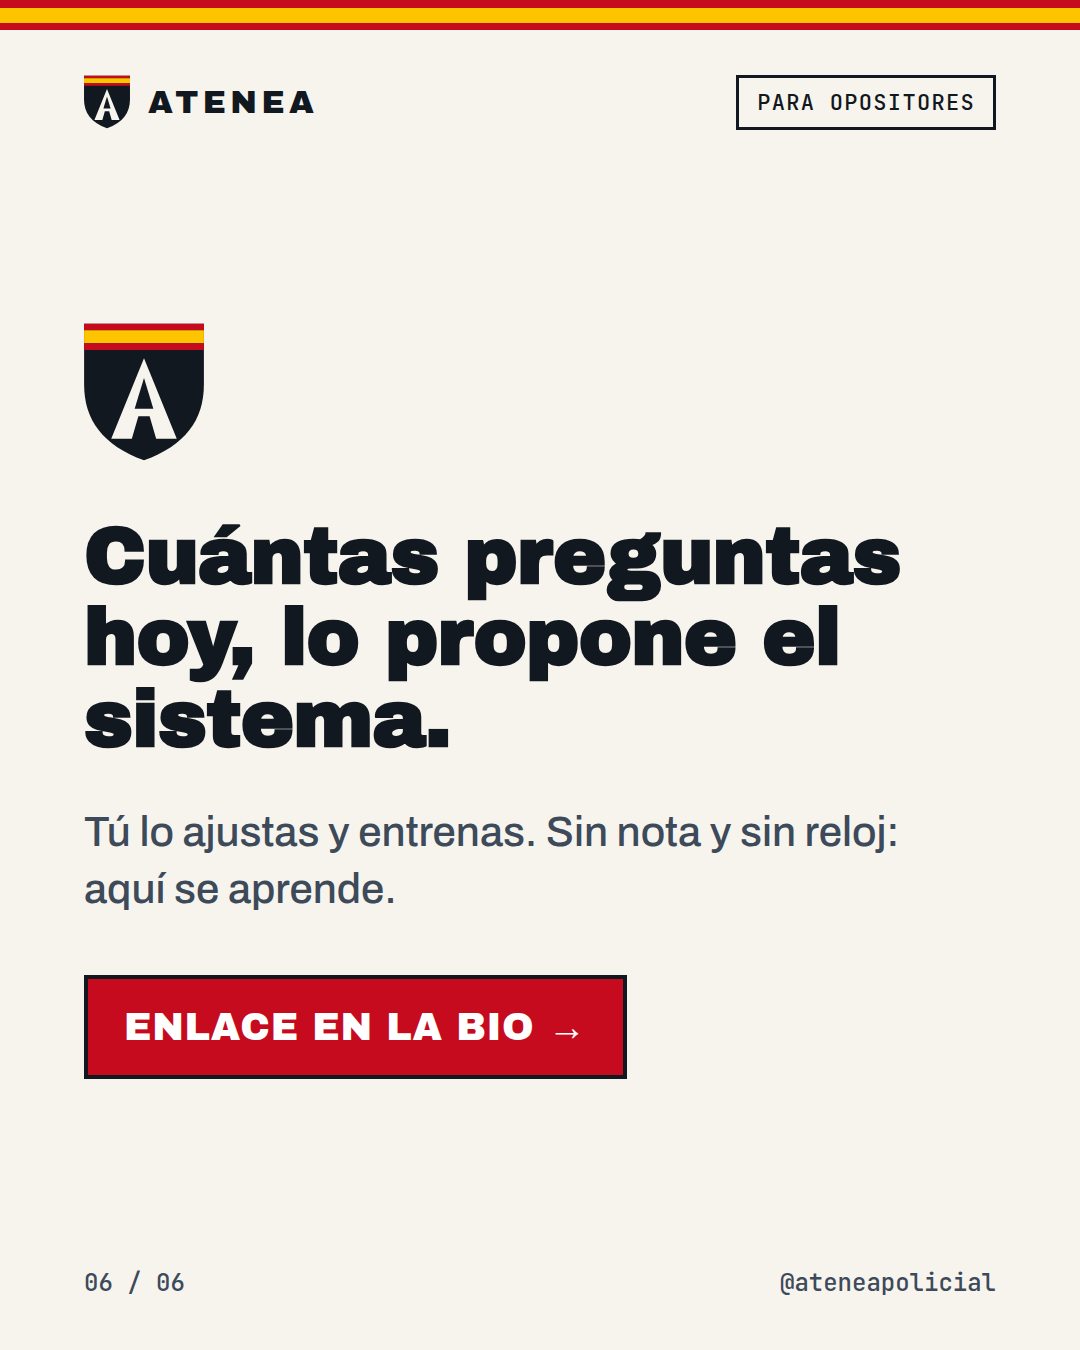
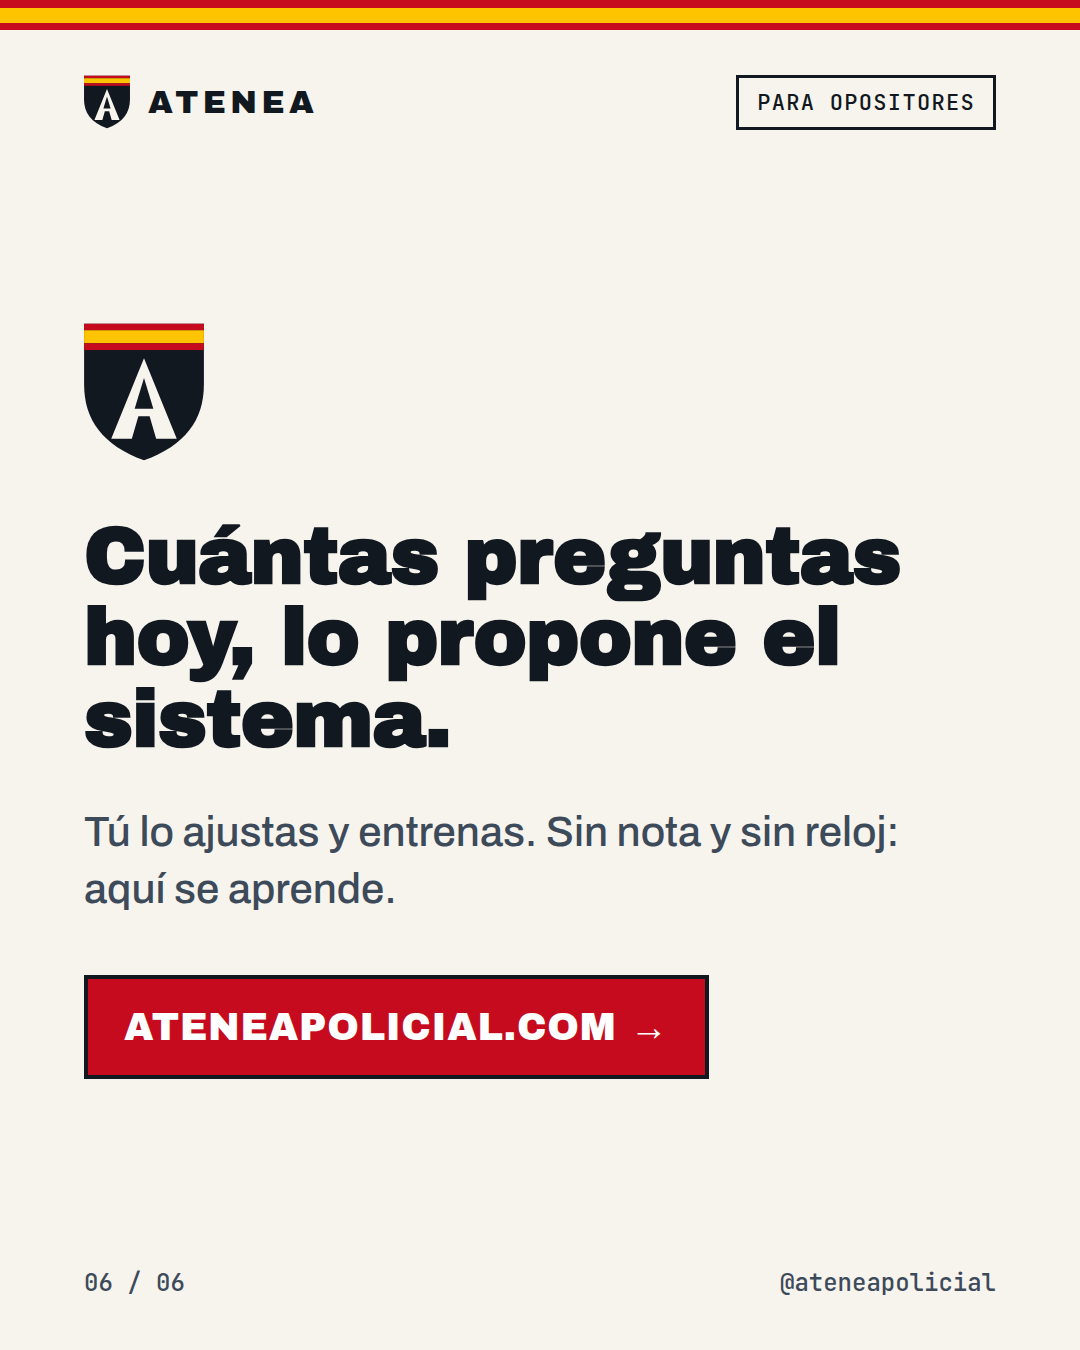
Instagram: el motor adaptativo como mensaje, no la fórmula del BOE
El post 02 pasa a ser «Sabe qué se te va a olvidar antes que tú» (un reloj
por pregunta y la semana de repasos). La fórmula sale del manifiesto, de
los simulacros y de Mi Evolución. Las llamadas a la acción apuntan a
ateneapolicial.com, y la cuenta y el dominio dejan de figurar como
pendientes: ya existen.

Claude-Session: https://claude.ai/code/session_01Q8bJ7PzybgSgRwg9n7MrC2

Changed region(s): [[0.1222, 0.7156, 0.6722, 0.8089]]

diff --git a/marketing/instagram/POSTS.md b/marketing/instagram/POSTS.md
@@ -16,18 +16,18 @@ Las imágenes de cada post están en `png/<id>/`, numeradas en el orden en que s
    Estudiar lo que no toca, sí.
 2. Lo que hay  
    Miles de preguntas al azar y un porcentaje.  
-   Así funcionan casi todas las plataformas de test. Tú decides qué repasar, cuándo y cuánto. Y el porcentaje te dice que vas bien cuando la nota real diría otra cosa.
+   Así funcionan casi todas las plataformas de test. Qué repasar, cuándo y cuánto lo decides tú. Y nadie mira cómo has respondido: solo si has acertado.
 3. Lo que hace Atenea  
    Decide por ti. Y te dice por qué.  
    · Qué estudias hoy — Cada pregunta lleva su propio calendario de repaso. Hoy salen las que te tocan.  
    · Dónde está tu nota — El banco crece donde más cae el examen real: 497 preguntas oficiales de 2021 a 2025, contadas tema a tema.  
-   · Cuánto sacarías hoy — Simulacros con la fórmula de la convocatoria. Los fallos restan.
+   · Qué se te está olvidando — Lo que se te va antes de que se vaya del todo, sin que tengas que buscarlo.
 4. Y para academias  
    Tu método, con un motor detrás.  
    A quién llamar hoy, qué preguntas falla toda la clase, grupos, pagos y físicas. Con el nombre de tu academia y tu propio enlace.
 5. Policía Nacional. Escala Básica.  
    45 temas. Un sistema que aprende de cómo respondes.  
-   Enlace en la bio
+   ateneapolicial.com
 
 ### Pie de foto
 
@@ -39,81 +39,72 @@ Casi todas las plataformas de test hacen lo mismo: un banco enorme, preguntas al
 Atenea lo decide por ti, y te dice por qué:
 → Cada pregunta tiene su calendario de repaso. Hoy salen las que te tocan.
 → El banco crece donde más cae el examen real (497 preguntas oficiales, 2021–2025, contadas por tema).
-→ Los simulacros se puntúan con la fórmula de la convocatoria: los fallos restan.
+→ Sabe qué se te está olvidando y te lo pone delante antes de que se vaya.
 
 ¿Tienes una academia? También es para ti: panel de alumnos, grupos, pagos y físicas, con tu nombre y tu enlace.
 
-Oposición a Policía Nacional, Escala Básica. Enlace en la bio.
+Oposita a Policía Nacional como nunca antes. ateneapolicial.com
 
 #policianacional #oposicionespolicia #escalabasica #opositores #academiadeoposiciones
 ```
 
 ### Texto alternativo (accesibilidad)
 
-> Carrusel de presentación de Atenea Policial: estudiar más horas no es el problema, estudiar lo que no toca sí. Explica que la plataforma decide qué repasar cada día, prioriza los temas que más caen en el examen real y puntúa con la fórmula oficial.
+> Carrusel de presentación de Atenea Policial: estudiar más horas no es el problema, estudiar lo que no toca sí. Explica que la plataforma decide qué repasar cada día, prioriza los temas que más caen en el examen real y detecta qué se le está olvidando al alumno.
 
 ---
 
-## 02-la-nota-real · La fórmula del BOE: los fallos restan
+## 02-lo-que-se-te-va-a-olvidar · Sabe qué se te va a olvidar antes que tú
 
 **Semana 1, Miércoles** · Público: **Para opositores** · 📌 **Fijar en el perfil**
 
 ### Diapositivas
 
-1. Antes de tu próximo test  
-   60 aciertos de 100. Tu nota: un 4.  
-   Tu app te habría dicho «60 %».
-2. La fórmula de la convocatoria  
-   [ A − E/2 ] × 10 / P  
-   Con tres opciones de respuesta, cada dos fallos te quitan un acierto.
-3. Hagamos la cuenta  
-   Contestándolo todo  
-   · 60 aciertos +60  
-   · 40 fallos ÷ 2 −20  
-   · Netos 40  
-   · 40 × 10 / 100   
-   · Nota: 4,0
-4. Mismo alumno, otra estrategia  
-   20 que no sabía, en blanco  
-   Mismos aciertos. Un punto más.  
-   · 60 aciertos +60  
-   · 20 fallos ÷ 2 −10  
-   · 20 en blanco 0  
-   · 50 × 10 / 100   
-   · Nota: 5,0
-5. El problema  
-   Un porcentaje te enseña a contestarlo todo.  
-   Si nunca ves lo que te cuesta un fallo, arriesgar siempre parece buena idea. En el examen real, no lo es.
-6. En Atenea, cada simulacro se puntúa como el de verdad.  
-   Fórmula del BOE, 30 segundos por pregunta, y lo que te ha costado cada fallo dicho en palabras.  
-   Guárdalo para tu próximo simulacro
+1. Lo que te toca hoy  
+   Sabe qué se te va a olvidar antes que tú.  
+   Y te lo pone delante justo a tiempo.
+2. El problema  
+   Lo que estudiaste hace tres semanas ya se está yendo.  
+   Y no lo notas hasta el examen. Repasar por temas, en orden, llega tarde a unas preguntas y demasiado pronto a otras.
+3. Lo que te toca esta semana  
+   Preguntas que vencen cada día. Las que se te pasan no se pierden: cuentan en hoy.  
+   _(ejemplo ilustrativo)_
+4. Cómo lo sabe  
+   Cada pregunta tiene su propio reloj.  
+   Uno por pregunta y por alumno. Si la aciertas firme, se aleja. Si se te cae, vuelve antes. Si la aciertas dudando, no se retira.
+5. Sin encuestas  
+   No te pregunta nada.  
+   Lo deduce de cómo respondes: cuánto tardas comparado contigo, cuándo tocas la primera opción, si cambias de idea.
+6. Tú entras. Lo que toca hoy ya está elegido.  
+   Oposita a Policía Nacional como nunca antes.  
+   ateneapolicial.com
 
 ### Pie de foto
 
 ```text
-60 aciertos de 100. ¿Qué nota sacas?
+Lo que estudiaste hace tres semanas se te está olvidando ahora mismo. Y no lo vas a notar hasta el examen.
 
-Si has dicho un 6, haz la cuenta otra vez.
+Repasar por temas, en orden, llega tarde a unas preguntas y demasiado pronto a otras.
 
-En la primera prueba de la Escala Básica los fallos restan. La fórmula de la convocatoria es [A − E/(n−1)] × 10/P, y con tres opciones queda así: cada dos fallos te quitan un acierto.
+En Atenea cada pregunta tiene su propio reloj, distinto para cada alumno:
+→ Si la aciertas firme, se aleja.
+→ Si se te cae, vuelve antes.
+→ Si la aciertas dudando, no se da por sabida.
 
-60 aciertos y 40 fallos → 60 − 20 = 40 netos → un 4,0.
-60 aciertos, 20 fallos y 20 en blanco → 60 − 10 = 50 netos → un 5,0.
+Y no te pregunta nada: lo deduce de cómo respondes. Cuánto tardas comparado contigo, cuándo tocas la primera opción, si cambias de idea.
 
-Sabes lo mismo y sacas un punto más. El blanco no resta; contestar a ciegas, sí.
+Tú entras y lo que te toca hoy ya está elegido. Ves lo que vence cada día de la semana, y lo que se te pasa no se pierde: cuenta en hoy.
 
-Por eso en Atenea los simulacros no dan un porcentaje: dan la nota con la fórmula oficial, con reloj de 30 segundos por pregunta, y te dicen lo que te ha costado cada fallo.
+(Las cifras de la imagen son un ejemplo.)
 
-Guárdalo y compártelo con quien siga contando porcentajes.
+ateneapolicial.com
 
-Fuente: BOE-A-2026-15055, primera prueba.
-
-#policianacional #oposicionespolicia #escalabasica #opositores #testoposiciones
+#policianacional #oposicionespolicia #tecnicasdeestudio #repeticionespaciada #opositores
 ```
 
 ### Texto alternativo (accesibilidad)
 
-> Carrusel que explica la fórmula de la nota de la Escala Básica de Policía Nacional. Con 60 aciertos y 40 fallos la nota es un 4; con 60 aciertos, 20 fallos y 20 en blanco, un 5. Los fallos restan y el blanco no.
+> Carrusel sobre cómo Atenea anticipa el olvido: cada pregunta tiene su propio calendario de repaso por alumno. Muestra un ejemplo de las preguntas que vencen cada día de la semana y explica que el sistema lo deduce de cómo responde el alumno, sin preguntarle.
 
 ---
 
@@ -201,7 +192,7 @@ Tienes una academia de oposición a Policía Nacional y quieres verlo con tus al
    En los temas que más caen hay preguntas para cada artículo, no una cifra redonda por tema. Y cuando dos repasos son igual de urgentes, va primero el del tema que más cae.
 7. Guárdalo. Pásaselo a quien estudia contigo.  
    Las preguntas oficiales se usan para medir el peso, nunca como fuente: la ley cambia.  
-   Enlace en la bio
+   ateneapolicial.com
 
 ### Pie de foto
 
@@ -264,7 +255,7 @@ Fuente: cuadernillos oficiales 2021–2025, clasificados por tema.
    Cada recaída acorta su siguiente repaso. Es tu memoria con esa pregunta, no una media de todo el mundo.
 6. Cuántas preguntas hoy, lo propone el sistema.  
    Tú lo ajustas y entrenas. Sin nota y sin reloj: aquí se aprende.  
-   Enlace en la bio
+   ateneapolicial.com
 
 ### Pie de foto
 
@@ -376,7 +367,7 @@ Demo para academias: escríbenos por DM.
    · Laguna — Esto no lo sabías.
 6. Tú contestas. Lo demás lo deducimos.  
    Sin encuestas después de cada pregunta.  
-   Enlace en la bio
+   ateneapolicial.com
 
 ### Pie de foto
 
@@ -421,12 +412,9 @@ Tú contestas. Lo demás lo hace el sistema.
 4. Los blancos  
    Hay dos tipos de blanco.  
    El que no tocaste porque no tenías ni idea. Y el que marcaste y retiraste porque no compensaba arriesgar. El segundo es estrategia, y lo distinguimos.
-5. Reloj de la convocatoria  
-   30 s por pregunta.  
-   100 preguntas en 50 minutos. Un simulacro de 25 dura 12:30.
-6. Tu media de simulacros, con la nota del BOE.  
-   La mejor, la última y hacia dónde vas.  
-   Enlace en la bio
+5. Dos simulacros que se pueden comparar.  
+   Tu media, la mejor y hacia dónde vas.  
+   ateneapolicial.com
 
 ### Pie de foto
 
@@ -440,7 +428,6 @@ En Atenea un simulacro:
 → Reparte por temas y por artículos.
 → Mantiene fija la mezcla de dificultad.
 → No repite lo que has visto en los últimos 7 días.
-→ Lleva el reloj de la convocatoria: 30 segundos por pregunta.
 
 Al terminar, una cuadrícula: verde, rojo y blanco. Cada casilla abre qué marcaste, la correcta, la explicación, el artículo y cuánto tardaste.
 
@@ -526,7 +513,7 @@ Y si un alumno reporta una pregunta de tu banco, te llega a ti. Si es del banco 
    Porque el día del examen la trampa no es la correcta: es la que se le parece.
 5. Tus fallos, ordenados por lo que hay que hacer con ellos.  
    No una lista plana de todo lo que has fallado.  
-   Enlace en la bio
+   ateneapolicial.com
 
 ### Pie de foto
 
@@ -564,13 +551,13 @@ Y cada explicación dice por qué la correcta está bien y también por qué las
    · El mapa del temario — Por tema: dominadas, en camino y sin tocar.  
    · Las que se te resisten — Y de qué tema son la mayoría.  
    · Las que evitas — Las que siempre dejas en blanco.  
-   · ¿Aprobaría? — Tu media de simulacros con la nota del BOE, y hacia dónde va.
+   · ¿Aprobaría? — Tu media de simulacros y hacia dónde va.
 4. En todos tus dispositivos  
    Un día que ya pasó no cambia.  
    Tu curva se guarda en tu cuenta: la misma en el móvil y en el ordenador.
 5. Dónde estás. No dónde te gustaría estar.  
    Solo lo que has hecho, contado bien.  
-   Enlace en la bio
+   ateneapolicial.com
 
 ### Pie de foto
 
@@ -584,7 +571,7 @@ Casi ninguna plataforma te lo puede decir, porque solo guarda aciertos y fallos 
 → El mapa del temario: por tema, qué está dominado, qué va en camino y qué no has tocado.
 → Las que se te resisten, y de qué tema son la mayoría.
 → Las que evitas: las que siempre dejas en blanco.
-→ ¿Aprobaría?: la media de tus simulacros con la nota del BOE, y la tendencia.
+→ ¿Aprobaría?: la media de tus simulacros y la tendencia.
 
 Sin predicciones de cuándo vas a aprobar. Solo lo que has hecho, contado bien.
 

diff --git a/marketing/instagram/README.md b/marketing/instagram/README.md
@@ -22,8 +22,8 @@ Lo que decimos que nadie más dice, y que el producto hace de verdad:
 
 | Lo que decimos | En qué se apoya (no es marketing: está en el código) |
 |---|---|
-| Tu nota real, no un porcentaje | `app/lib/scoring.ts`: la fórmula del BOE, los fallos restan, el blanco no |
 | Lo que cae de verdad | `app/lib/exam-weight-data.ts`: 497 preguntas de los 5 exámenes oficiales 2021-2025 contadas por tema |
+| Sabe qué se te va a olvidar antes que tú | `question-scheduler.ts`: un reloj por pregunta y alumno, curva de olvido personal, «lo que te toca» esta semana |
 | Hoy te toca esto, y te decimos por qué | `smart-session.ts` + `razonRepaso`: cajones por pregunta, recaídas primero, ~85 % de acierto |
 | Acertar dudando no es saberlo | `answer-signals.ts`: firmeza deducida de tiempo, cambios y primer toque |
 | Si fallas siempre igual, te sabes algo mal | `distractorFijo` y «Se te resisten» |
@@ -40,9 +40,9 @@ opositor comparte el post de la nota, el director de su academia lo ve.
 |  | Opositor individual | Academia |
 |---|---|---|
 | Qué le duele | Estudia mucho y no sabe si va bien | Pierde alumnos sin verlo venir; lleva todo en Excel y WhatsApp |
-| Qué le prometemos | Qué estudiar hoy y cuánto sacaría hoy | A quién llamar, qué explicar y la gestión en un sitio |
+| Qué le prometemos | Qué estudiar hoy, y que no se le olvide lo que ya sabe | A quién llamar, qué explicar y la gestión en un sitio |
 | Formato | Carrusel educativo que se guarda y se comparte | Carrusel con un dolor concreto y el panel como respuesta |
-| Llamada a la acción | Enlace en la bio | Pide una demo por DM |
+| Llamada a la acción | ateneapolicial.com | Pide una demo por DM |
 | Color del post | **Hueso** (fondo claro, rojo) | **Noche** (fondo oscuro, amarillo) |
 
 El color no es decoración: en la cuadrícula del perfil un director de academia
@@ -55,10 +55,13 @@ es quien comparte, y quien comparte es quien trae a la academia.
 - **Precisa, no motivacional.** Nada de «¡tú puedes!», «aprueba seguro» ni
   cuentas atrás con fuegos artificiales. El opositor está saturado de eso; lo
   que no tiene son datos.
-- **Cada post enseña algo aunque no te registres.** La fórmula de la nota o el
-  peso de cada tema sirven igual sin la app. Eso es lo que hace que se guarde y
+- **Cada post enseña algo aunque no te registres.** El peso real de cada tema o
+  por qué se olvida lo estudiado hace tres semanas sirven igual sin la app. Eso es lo que hace que se guarde y
   se comparta, y lo que da autoridad para vender después.
 - **Frases cortas. Tuteo.** Se habla al opositor de tú, y a la academia también.
+- **La fórmula del BOE no es el mensaje.** Ya la dice la página de entrada y
+  la conoce cualquier opositor. Lo que nadie más tiene es el motor: sabe qué
+  se te va a olvidar y decide por ti.
 - **El producto aparece al final**, como la consecuencia de lo que se ha
   explicado, no al principio.
 
@@ -87,7 +90,7 @@ mejor para academias.
 
 | Semana | Lunes | Miércoles | Viernes |
 |---|---|---|---|
-| 1 | 📌 01 · Manifiesto (ambos) | 📌 02 · 60 aciertos, un 4 | 📌 03 · ¿Quién lo va a dejar? (academia) |
+| 1 | 📌 01 · Manifiesto (ambos) | 📌 02 · Sabe qué se te va a olvidar | 📌 03 · ¿Quién lo va a dejar? (academia) |
 | 2 | 04 · No todos los temas valen igual | 05 · Hoy te toca esto | 06 · Excel, WhatsApp y una libreta (academia) |
 | 3 | 07 · Acertar dudando | 08 · Simulacros comparables | 09 · Lo que falla toda la clase (academia) |
 | 4 | 10 · La misma opción falsa | 11 · Mi Evolución | 12 · Más de 4.600 preguntas (academia) |
@@ -95,17 +98,14 @@ mejor para academias.
 Los martes y jueves, un **reel** (guiones en `REELS-Y-STORIES.md`); todos los
 días, stories con encuesta sobre el post de la víspera.
 
-## 6 · Bio
+## 6 · Perfil
 
-```text
-Atenea · Policía Nacional (Escala Básica)
-Decide qué estudias hoy y te dice por qué.
-Nota real del BOE · entrenamiento adaptativo
-Academias: panel + gestión → DM
-👇 Solicita acceso
-```
+La cuenta (`@ateneapolicial`), la bio («Oposita a Policía Nacional como nunca
+antes.») y el enlace a `ateneapolicial.com` ya están. Las imágenes llevan el
+usuario y el dominio en la última diapositiva.
 
-Destacados: **Cómo funciona** · **La nota** · **Academias** · **Preguntas**.
+Destacados sugeridos: **Cómo funciona** · **Lo que te toca** · **Academias** ·
+**Pregunta del día**.
 
 ## 7 · Qué medir
 
@@ -120,21 +120,15 @@ No los «me gusta». Cada semana:
 Si tras el mes un tipo de post dobla en guardados al resto, el segundo mes se
 hace más de ese.
 
-## 8 · Antes de publicar (lo decide el dueño)
+## 8 · Antes de publicar
 
-- [ ] **El usuario de Instagram.** Las imágenes llevan `@ateneapolicial` en la
-      última diapositiva. Si es otro: `IG_USUARIO=@otro node render.mjs`.
-- [ ] **El enlace de la bio.** Hoy la app vive en `atenea-eight.vercel.app`;
-      `ateneapolicial.com` ya está comprado (se usa para el correo). Conviene
-      apuntarlo a la app antes de lanzar: un dominio propio da confianza.
-- [ ] **Qué ve un opositor al pulsar el enlace.** Hoy un registro sin academia
-      entra en la academia «casa» y espera a que se le acepte (regla 70). Si hay
+- [ ] **Qué ve un opositor al registrarse.** Hoy un registro sin academia entra
+      en la academia «casa» y espera a que se le acepte (regla 70). Si hay
       precio, decidir si se dice en la bio o en la primera respuesta.
-- [ ] **Quién contesta los DMs de academias** y con qué: una demo con una cuenta
-      de prueba preparada de antemano.
+- [ ] **Quién contesta los DMs de academias**, con una cuenta de demo preparada.
 - [ ] **El peso por tema (post 04)** sale de la clasificación por tema de los
-      cuadernillos resueltos. Si el temario de la convocatoria 2026 renumera
-      algún tema respecto a esos cuadernillos, revisar los cinco títulos.
+      cuadernillos resueltos. Si la convocatoria 2026 renumera algún tema,
+      revisar los cinco títulos.
 
 ## Cómo regenerar
 

diff --git a/marketing/instagram/REELS-Y-STORIES.md b/marketing/instagram/REELS-Y-STORIES.md
@@ -6,21 +6,20 @@ sale la app, es la app (con una cuenta de prueba, nunca datos de un alumno real)
 
 ---
 
-## Reel 1 · «Te calculo tu nota en 20 segundos» (semana 1, martes)
+## Reel 1 · «¿Qué estudiaste hace tres semanas?» (semana 1, martes)
 
-**Público:** opositores · **Duración:** 20-25 s · **Formato:** a cámara, texto
-grande encima.
+**Público:** opositores · **Duración:** 20-25 s · **Formato:** a cámara +
+grabación de pantalla de «Lo que te toca».
 
 | Seg. | Imagen | Voz / texto en pantalla |
 |---|---|---|
-| 0-2 | A cámara, directo | «60 aciertos de 100. ¿Qué nota sacas?» |
-| 2-5 | Mano con los dedos: 6 | «Si has dicho un 6… no.» |
-| 5-12 | Texto: `60 − 40/2 = 40 → 4,0` | «Los fallos restan. Cada dos fallos, un acierto menos. Es un 4.» |
-| 12-18 | Texto: `60 − 20/2 = 50 → 5,0` | «Si esas 20 que no sabías las dejas en blanco: un 5. Un punto más sabiendo lo mismo.» |
-| 18-22 | Pantalla de resultados del simulacro en la app | «En Atenea el simulacro te da la nota como el de verdad. Enlace en la bio.» |
+| 0-3 | A cámara, directo | «¿Qué estudiaste hace tres semanas?» |
+| 3-7 | Cara de no acordarse | «Exacto. Se te está yendo, y no lo vas a notar hasta el examen.» |
+| 7-15 | Pantalla: la semana con lo que vence cada día | «Atenea lleva un reloj por cada pregunta. Sabe cuál se te va a olvidar y te la pone delante antes.» |
+| 15-20 | Pantalla: «Te toca porque la fallaste hace 3 días» | «Y te dice por qué te toca.» |
+| 20-23 | Logo + ateneapolicial.com | «Oposita como nunca antes.» |
 
-**Pie:** «Guárdalo y haz la cuenta con tu último simulacro. Fórmula completa en
-el post fijado.» · Portada del reel: «60 aciertos = un 4».
+**Portada del reel:** «Se te está olvidando».
 
 ## Reel 2 · «La app sabe cuándo dudas» (semana 2, jueves)
 
@@ -57,8 +56,8 @@ Instagram (encuesta, test, pregunta): son los que más respuestas sacan.
 
 | Día | Story | Sticker |
 |---|---|---|
-| Tras el 02 | «60 aciertos, 40 fallos. ¿Qué nota?» | Test: 6 / 5 / **4** |
-| Tras el 02 | «En el último simulacro, ¿dejaste alguna en blanco?» | Encuesta: Ninguna / Alguna / Muchas |
+| Tras el 02 | «¿Cuándo repasaste por última vez el tema 1?» | Encuesta: Esta semana / Este mes / Ni me acuerdo |
+| Tras el 02 | «¿Cómo sabes qué se te está olvidando?» | Pregunta abierta |
 | Tras el 04 | «¿Cuál crees que es el tema que más cae?» | Test: Constitución II / Funcionarios / DGP |
 | Tras el 05 | «¿Cómo decides qué repasas cada día?» | Encuesta: Lo que me apetece / Un calendario / No lo decido |
 | Tras el 07 | «¿Has acertado alguna vez una pregunta sin estar seguro?» | Encuesta: Sí / Siempre |
